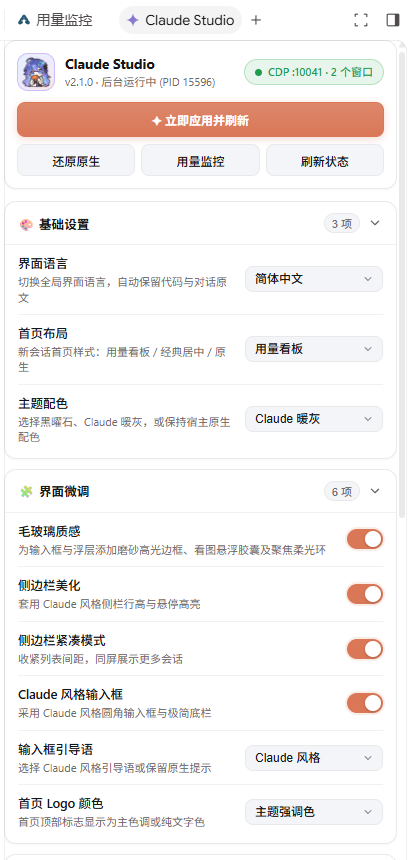
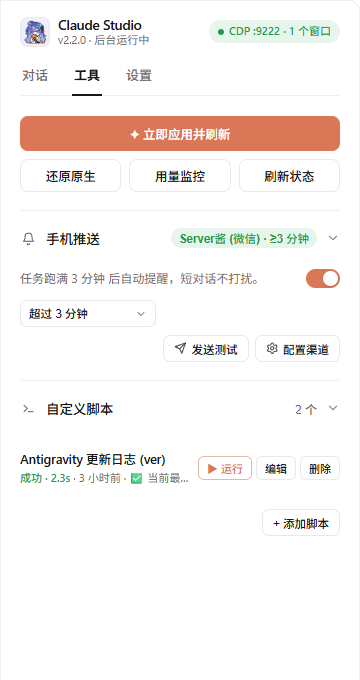
chore(release): release v2.2.0

diff --git a/sidecars/studio/index.html b/sidecars/studio/index.html
@@ -2193,7 +2193,7 @@
       <button type="button" class="section-head" id="update-section-head" aria-expanded="false">
         <span class="section-title" id="update-section-title">版本更新</span>
         <span class="section-head-right">
-          <span class="section-badge" id="update-section-badge">v2.1.0</span>
+          <span class="section-badge" id="update-section-badge">v2.2.0</span>
           <span class="section-chevron" aria-hidden="true">
             <svg width="14" height="14" viewBox="0 0 24 24" fill="none" stroke="currentColor" stroke-width="2.2" stroke-linecap="round" stroke-linejoin="round"><path d="m6 9 6 6 6-6"/></svg>
           </span>
@@ -3983,7 +3983,7 @@
         'updates',
         lang === 'zh-CN' ? '版本更新' : (lang === 'zh-TW' || lang === 'yue') ? '版本更新' : lang === 'ja' ? 'アップデート' : 'Updates & Sync'
       );
-      const verStr = `v${lastStatus?.version || '2.1.0'}`;
+      const verStr = `v${lastStatus?.version || '2.2.0'}`;
       const badgeEl = document.getElementById('update-section-badge');
       if (badgeEl) {
         badgeEl.textContent = lastUpdateCheck?.hasUpdate ? `v${lastUpdateCheck.latestVersion}` : verStr;
@@ -4102,7 +4102,7 @@
         txt.textContent = hasCdp
           ? t.connected(st.cdp.port, st.cdp.pageCount)
           : st.watcher?.alive ? t.waitingPort : t.disconnected;
-        meta.textContent = `v${st.version || '2.1.0'} · ${st.watcher?.alive ? t.watcherOn(st.watcher.pid) : t.watcherOff}`;
+        meta.textContent = `v${st.version || '2.2.0'} · ${st.watcher?.alive ? t.watcherOn(st.watcher.pid) : t.watcherOff}`;
         const showBanner = Boolean(st.cdp?.needsCdpRestart);
         document.getElementById('cdp-banner').classList.toggle('show', showBanner);
         if (metaBanner) {

diff --git a/installer/macos/Common/CdpClient.swift b/installer/macos/Common/CdpClient.swift
@@ -54,7 +54,7 @@ final class PluginManifest {
         let manifestPath = (baseDir as NSString).appendingPathComponent("manifest.json")
         let text = try String(contentsOfFile: manifestPath, encoding: .utf8)
         let raw = try MiniJson.parseObject(text)
-        let version = raw["version"]?.stringValue ?? "2.1.0"
+        let version = raw["version"]?.stringValue ?? "2.2.0"
         let styleId = raw["styleId"]?.stringValue ?? "ag-claude-studio-css"
         let settingBinding = raw["settingBinding"]?.stringValue ?? "__agClaudeStudioSetting"
         let removeExpression = raw["removeExpression"]?.stringValue ?? ""

diff --git a/cdp.js b/cdp.js
@@ -7,7 +7,7 @@ const { execFileSync, spawn } = require('child_process');
 
 const STYLE_ID = 'ag-claude-studio-css';
 const LEGACY_STYLE_ID = 'ag-claude-style-css';
-const PLUGIN_VERSION = '2.1.0';
+const PLUGIN_VERSION = '2.2.0';
 const SETTING_BINDING = '__agClaudeStudioSetting';
 const STARTUP_GRACE_SECONDS = 90;
 const IS_MAC = process.platform === 'darwin';

diff --git a/installer/setup/Program.cs b/installer/setup/Program.cs
@@ -631,7 +631,7 @@ namespace AgyClaudeStudio.Installer
                 if (key == null) return;
                 string exePath = Path.Combine(installDir, SelfInstalledExeName);
                 key.SetValue("DisplayName", "Claude Studio (Antigravity 界面增强补丁)", RegistryValueKind.String);
-                key.SetValue("DisplayVersion", version ?? "2.1.0", RegistryValueKind.String);
+                key.SetValue("DisplayVersion", version ?? "2.2.0", RegistryValueKind.String);
                 key.SetValue("Publisher", "Claude Studio", RegistryValueKind.String);
                 key.SetValue("InstallLocation", installDir, RegistryValueKind.String);
                 key.SetValue("DisplayIcon", exePath + ",0", RegistryValueKind.String);

diff --git a/installer/common/CdpClient.cs b/installer/common/CdpClient.cs
@@ -44,7 +44,7 @@ namespace AgyClaudeStudio
             string manifestPath = Path.Combine(baseDir, "manifest.json");
             Dictionary<string, object> raw = MiniJson.ParseObject(File.ReadAllText(manifestPath, Encoding.UTF8));
             PluginManifest m = new PluginManifest();
-            m.Version = GetString(raw, "version", "2.1.0");
+            m.Version = GetString(raw, "version", "2.2.0");
             m.StyleId = GetString(raw, "styleId", "ag-claude-studio-css");
             m.SettingBinding = GetString(raw, "settingBinding", "__agClaudeStudioSetting");
             m.RemoveExpression = GetString(raw, "removeExpression", "");

diff --git a/README.md b/README.md
@@ -4,12 +4,12 @@
 
 # Claude Studio
 
-**`agy-claude-studio`** — Native UI Aesthetics Plugin for **Google Antigravity 2.33.1+**
+**`agy-claude-studio`** — Native UI Aesthetics & Productivity Plugin for **Google Antigravity 2.33.1+ (v2.35.x Ready)**
 
-Claude Warm-Gray & Obsidian Palettes · Standalone Glassmorphism · Gemini 4 Periodic Table Selector · 60fps Effort Slider · Pixel Clawd Mascot · Native Aux Pane Studio
+Claude Warm-Gray & Obsidian Palettes · 3-Tab Studio Sidecar (`Chat | Tools | Settings`) · 0-Token Mobile Push · Gemini 4 Periodic Table & Direct Sync · 4 Native Skills · Pixel Clawd Mascot
 
 <p>
-  <img src="https://img.shields.io/badge/Antigravity-2.33.1%2B-18181b?style=flat-square" alt="Antigravity 2.33.1+" />
+  <img src="https://img.shields.io/badge/Antigravity-2.33.1%2B%20%7C%202.35.x-18181b?style=flat-square" alt="Antigravity 2.33.1+ / 2.35.x" />
   <img src="https://img.shields.io/badge/Platform-Windows%20%7C%20macOS-18181b?style=flat-square" alt="Platform" />
   <img src="https://img.shields.io/badge/MCP_Tools-0_Tokens-2f855a?style=flat-square" alt="Zero Token MCP" />
   <img src="https://img.shields.io/badge/i18n-5_Languages-3b82f6?style=flat-square" alt="5 Languages" />
@@ -35,6 +35,11 @@ Claude Warm-Gray & Obsidian Palettes · Standalone Glassmorphism · Gemini 4 Per
 
 <div align="center">
 
+#### v2.2 Full Workspace Overview (Claude Warm-Gray + 3-Tab Sidecar + Live Activity)
+<img src="assets/screenshots/studio-overview.png" alt="Claude Studio v2.2 Full Workspace Overview" width="880" />
+
+<br/>
+
 #### Gemini 4 Periodic Table Model Selector
 <img src="assets/screenshots/periodic-selector.png" alt="Gemini 4 Periodic Table Model Selector" width="760" />
 
@@ -45,16 +50,16 @@ Claude Warm-Gray & Obsidian Palettes · Standalone Glassmorphism · Gemini 4 Per
 
 <br/>
 
-#### Native "Claude Studio" Aux Pane × "Usage Monitor" Synergy
+#### Native "Claude Studio" Tools Tab × "Usage Monitor" Synergy
 <table>
   <tr>
     <td align="center" width="50%">
       <img src="assets/screenshots/studio-panel.png" alt="Claude Studio Control Panel" width="308" /><br/>
-      <sub><b>Claude Studio Control Panel</b>: 4 collapsible setting groups + quick jump to Usage Monitor</sub>
+      <sub><b>Claude Studio Tools Tab (v2.2)</b>: 1-click apply, mobile push quick panel &amp; local script runner</sub>
     </td>
     <td align="center" width="50%">
       <img src="assets/screenshots/usage-monitor-pair.png" alt="Usage Monitor Companion" width="308" /><br/>
-      <sub><b>Usage Monitor Companion</b>: auto-expands per conversation with smart composer footer splitting</sub>
+      <sub><b>Usage Monitor Companion</b>: selectable right-pane pinning (<code>Studio</code> / <code>Usage Monitor</code> / <code>Off</code>) with smart footer splitting</sub>
     </td>
   </tr>
 </table>
@@ -68,23 +73,24 @@ Claude Warm-Gray & Obsidian Palettes · Standalone Glassmorphism · Gemini 4 Per
 
 | Module | Highlights |
 | --- | --- |
-| **Themes & Materials** | Three adaptive light/dark solid palettes — `claude` (warm gray/charcoal, default), `obsidian`, and `host` (native) — plus an independent `glassEffect` toggle for frosted popover highlights, floating image viewer pills, and soft composer focus glow. |
-| **Model & Reasoning UX** | **Gemini 4 Periodic Table Drawer**: category tabs, live search, quota & reasoning tier switcher, and AI Studio element-sync prompt generator; **60fps Effort Slider**: ChatGPT Codex nebula & Claude Code dot-matrix styles, fully compatible with Antigravity `2.33.1` `· 1M` / `(High Thinking)` badges. |
-| **Workspace & Typography** | Compact Claude-style composer & sidebar, CJK IME-friendly smooth interpolated caret, Studio home dashboard (26-week heatmap, 30d/7d stacked bar chart, book-length yardstick), and interactive ASCII wave ripple canvas. |
-| **Native Plugin & i18n** | Zero-tool MCP lifecycle host (`tools/list -> []`, **0 token overhead**) with PID-reuse deadlock protection and `<2KB` lightweight config hot-reload; visual right-side Aux Pane; 5-language live UI translation (Simplified Chinese / Traditional Chinese / Cantonese / English / Japanese) across both the main window and **Swarm sidecar (`/swarm`)**, automatically skipping code editors and third-party plugin nodes. |
-| **Pixel Mascot Clawd** | 19-state dual-layer pixel companion perched on the composer corner that reacts to thinking/typing/building/compacting/sleeping states, supports poking, rapid-click tickling, dragging, and auto-dodges takeover cards. |
+| **3-Tab Sidecar (`Chat \| Tools \| Settings`)** | Clean minimalist flat UI with a **1-click header upgrade** (works for both Git clones and non-Git plugin installs while preserving `PLUGIN_DATA/`). The **Chat** tab shows live workspace, Git branch, billed-aligned context breakdown, connectors, and real-time activity (waiting, reasoning, commands, streaming previews, and expandable subagents). |
+| **Mobile Push Alerts (Zero Tokens)** | Get pinged on your phone when long tasks finish or fail across **8 channels** — **ServerChan** (full Markdown up to ~28KB), **Bark (iOS)**, **ntfy**, **Feishu**, **DingTalk**, **WeCom**, **Telegram Bot**, and **custom Webhooks** — with duration filtering (default 3 min), idle/error/cancel rules, and isolated local credentials in `PLUGIN_DATA/notify.json`. |
+| **Model, Reasoning & `/compact` UX** | **Gemini 4 Periodic Table** with direct AI Studio metadata sync; **Orchestrator quick switch** beside the model selector with persisted effort and running-turn locking; **60fps Effort Slider**; and smart **`/compact` presets** (auto-select, inline hint, 4 customizable presets defaulting to `clean`). |
+| **Local Tools & 4 Native Skills** | **Tools** tab to manage and run local Node / Python / Shell scripts with live output, pre-seeded with the bundled **Antigravity changelog checker** (`scripts/fetch-agy-changelog.mjs`). Ships **4 native skills**: `studio-setup` (30s guided setup), `studio-doctor` (diagnostics & NL tuning), `studio-notify` (push wizard), and `studio-translation-protect` (manage i18n exclusions). |
+| **Themes, Localization & i18n Protocol** | `claude`, `obsidian`, and `host` palettes; standalone frosted glass with subtle unfocused glow; `logoInk` top-left icon tinting; 5-language live localization across main window, **Swarm (`/swarm`)**, and Antigravity **v2.35.x** (plus an on-demand Marketplace Google Translate pill); standard opt-out attributes + cloud protection list + custom ignore selectors. |
+| **Workspace & Pixel Mascot Clawd** | Compact Claude-style composer & sidebar, CJK IME-friendly smooth caret, Studio home dashboard & ASCII ripple canvas, and the 19-state pixel companion **Clawd** (poke, tickle, drag, nap, auto-dodge). |
 
 ---
 
 <a id="companion-plugin"></a>
 ## Companion Plugin: `antigravity-usage-monitor`
 
-`Claude Studio` focuses on **visual aesthetics, interaction craft, and localization**. For live token throughput (`tok/s`), TTFT latency, cost estimates, and multi-model quota pools, we recommend pairing it with the independent plugin **[yuhuan-dev/antigravity-usage-monitor](https://github.com/yuhuan-dev/antigravity-usage-monitor)**:
+`Claude Studio` focuses on **visual aesthetics, interaction craft, live workspace inspection, and localization**. For live token throughput (`tok/s`), TTFT latency, cost estimates, and multi-model quota pools, we recommend pairing it with the independent plugin **[yuhuan-dev/antigravity-usage-monitor](https://github.com/yuhuan-dev/antigravity-usage-monitor)**:
 
-- **Zero-conflict coexistence**: Built-in lightweight usage stats default to off (`usageStatsEnabled: false`), and the i18n engine permanently skips `#ag-usage-monitor-*` roots.
+- **Zero-conflict coexistence**: Built-in lightweight HUD defaults to a clean top bar (`usageStatsEnabled: true`, `hudTopBar: true`, `hudBottomBar: false`, `hudRimProgress: false`) and can be toggled off anytime in Settings. The i18n engine permanently skips `#ag-usage-monitor-*` via the built-in `i18n-compat.json` protection list.
 - **Smart footer splitting**: When `usage-monitor` is docked in the composer footer, its context progress ring is seamlessly mirrored to the far right without layout jitter or crowding.
-- **Aux Pane synergy**: Once `usage-monitor` is detected, the top "Usage Monitor" shortcut activates automatically, with optional once-per-conversation auto-pinning (`pinUsageMonitorPane: true`) that never steals focus.
-- **Clean license boundary**: This project is **MIT**-licensed while `antigravity-usage-monitor` is **GPLv3**-licensed — strictly decoupled and installed independently. If you prefer not to install a companion plugin, you can toggle the built-in lightweight usage HUD at the bottom of the Studio panel anytime.
+- **3-way right-pane pinning (`pinRightPane`)**: Choose `Off`, `Studio Chat Pane` (default), or `Usage Monitor` in Settings — legacy `pinUsageMonitorPane` configs migrate automatically, and installs without `usage-monitor` fall back gracefully.
+- **Clean license boundary**: This project is **MIT**-licensed while `antigravity-usage-monitor` is **GPLv3**-licensed — strictly decoupled and installed independently.
 
 ---
 
@@ -92,7 +98,7 @@ Claude Warm-Gray & Obsidian Palettes · Standalone Glassmorphism · Gemini 4 Per
 ## Quick Install
 
 ### Requirements
-- **Google Antigravity Desktop `2.33.1+`** (Windows / macOS) launched with `--remote-debugging-port=0`.
+- **Google Antigravity Desktop `2.33.1+`** (fully tested through `2.35.x`; Windows / macOS) launched with `--remote-debugging-port=0`.
 - **Node.js `>= 22`** (zero third-party npm dependencies; uses native `fetch`, `WebSocket`, and `node:test`).
 
 ### Fastest Way: Ask Gemini in Antigravity (Recommended)
@@ -101,9 +107,9 @@ No terminal needed — just paste this repository URL into any Antigravity chat 
 
 > **Help me install this Antigravity plugin: `https://github.com/eosglyph/agy-claude-studio`**
 
-The agent will clone it into your plugins directory, check CDP launch settings, and walk you through enabling it.
+Once installed, you can also ask Gemini to run the built-in **`studio-setup`** skill (*"Walk me through 30s Claude Studio setup"*) or **`studio-notify`** (*"Help me set up mobile push alerts"*).
 
-> **Optional · Full Dual-Pane Setup**: Want the exact dual-pane experience shown in the screenshots? Ask Gemini to install the standalone companion plugin (GPLv3) together:
+> **Optional · Full Dual-Pane Setup**: Want the exact dual-pane experience with the standalone companion plugin (GPLv3)? Ask Gemini:
 >
 > **Help me install `https://github.com/eosglyph/agy-claude-studio` along with the companion plugin `https://github.com/yuhuan-dev/antigravity-usage-monitor`**
 
@@ -126,6 +132,7 @@ The agent will clone it into your plugins directory, check CDP launch settings, 
 <summary><b>Option 2: Standalone Windows / macOS Installers (No Node.js Required) & Companion Launcher</b></summary>
 
 - **Pre-built Releases**: Grab `Claude-Studio-v<version>-Windows-x64.exe` or `Claude-Studio-v<version>-macOS-universal.dmg` directly from [GitHub Releases](https://github.com/eosglyph/agy-claude-studio/releases).
+  > **macOS note**: The Universal `.dmg` passes GitHub Actions CI builds and the automated test suite, and currently awaits real-hardware Mac verification — feedback from macOS users is very welcome.
 
 - **Build Windows standalone installer locally**:
   ```bash
@@ -181,7 +188,7 @@ npm run remove                        # Stop watcher and restore native UI clean
 <a id="configuration"></a>
 ## Configuration
 
-All settings can be toggled live in the right-side **Claude Studio** panel and persist automatically (full schema in [config.example.json](config.example.json)).
+All settings can be toggled live in the right-side **Claude Studio** panel and persist automatically (full schema in [config.example.json](config.example.json)). Mobile push settings and credentials are stored separately in local `PLUGIN_DATA/notify.json` and are never written to `config.json` or injected into renderer pages.
 
 <details>
 <summary><b>View all configuration keys</b></summary>
@@ -191,17 +198,19 @@ All settings can be toggled live in the right-side **Claude Studio** panel and p
 | Basic | `language` | `'zh-CN'` \| `'zh-TW'` \| `'yue'` \| `'en'` \| `'ja'` | `'zh-CN'` | UI & Studio panel language |
 | Basic | `homeLayout` | `'studio'` \| `'classic'` \| `'off'` | `'studio'` | New conversation home screen layout |
 | Basic | `palette` | `'claude'` \| `'obsidian'` \| `'host'` | `'claude'` | Solid color theme palette |
-| UI Polish | `glassEffect` | `boolean` | `true` | Frosted glassmorphism borders, image viewer pills & focus glow |
+| UI Polish | `glassEffect` | `boolean` | `true` | Frosted glassmorphism borders, image viewer pills & subtle ambient glow |
 | UI Polish | `sidebarRestyle` / `sidebarCompact` | `boolean` | `true` | Claude-style sidebar density & hover polish |
 | UI Polish | `composerRestyle` / `placeholderStyle` | `boolean` / `'studio'` \| `'host'` | `true` / `'studio'` | Minimalist composer & prompt placeholder copy |
-| UI Polish | `logoInk` | `'accent'` \| `'foreground'` | `'accent'` | Home logo tint mode |
-| Interaction | `periodicSelector` | `boolean` | `true` | Gemini 4 Periodic Table model selector |
+| UI Polish | `logoInk` | `'accent'` \| `'foreground'` | `'accent'` | Home & top-left app logo tint mode |
+| Interaction | `periodicSelector` / `orchestratorSwitch` | `boolean` | `true` | Gemini 4 Periodic Table selector & Orchestrator quick switch |
 | Interaction | `effortSliderStyle` / `effortAccent` | `'chatgpt'` \| `'claude'` / `boolean` | `'chatgpt'` / `true` | 60fps effort slider style & color scale |
+| Interaction | `compactPreset` / `compactCustomText` | `'empty'` \| `'clean'` \| `'dev'` \| `'custom'` / `string` | `'clean'` / `''` | `/compact` preset & custom prompt text |
 | Interaction | `smoothCaret` / `mascot` / `homeRipple` | `boolean` / `'crab'` \| `'off'` / `boolean` | `true` / `'crab'` / `true` | Smooth caret, Clawd mascot & home ripple field |
-| Usage HUD | `pinUsageMonitorPane` | `boolean` | `true` | Auto-open `usage-monitor` pane once per conversation |
-| Usage HUD | `usageStatsEnabled` | `boolean` | `false` | Master toggle for built-in HUD (preserves child prefs when off) |
-| Usage HUD | `inlineStats` / `ringMode` / `turnBadges` | `boolean` / `'context'` \| `'quota'` / `boolean` | `true` / `'context'` / `true` | *(Requires `usageStatsEnabled`)* Inline stats, context/quota ring & turn `#T` badges |
-| Usage HUD | `hudTopBar` / `hudBottomBar` / `hudRimProgress` / `hudFooterChip` / `hudCompact` | `boolean` | `true` | *(Requires `usageStatsEnabled`)* Rim progress bar & compact HUD layout |
+| Localization | `pluginPageTranslate` / `i18nIgnoreSelectors` | `boolean` / `string[]` | `true` / `[]` | Marketplace on-demand Google Translate pill & custom protected CSS selectors |
+| Usage & Pane | `pinRightPane` | `'off'` \| `'studio'` \| `'usage-monitor'` | `'studio'` | Auto-open right Aux Pane per conversation (migrates legacy `pinUsageMonitorPane`) |
+| Usage & Pane | `usageStatsEnabled` | `boolean` | `true` | Master toggle for built-in HUD (preserves child prefs when off) |
+| Usage & Pane | `inlineStats` / `ringMode` / `turnBadges` | `boolean` / `'context'` \| `'quota'` / `boolean` | `true` / `'context'` / `true` | *(Requires `usageStatsEnabled`)* Inline stats, context/quota ring & turn `#T` badges |
+| Usage & Pane | `hudTopBar` / `hudBottomBar` / `hudRimProgress` | `boolean` | `true` / `false` / `false` | *(Requires `usageStatsEnabled`)* Top HUD bar, bottom bar & rim progress bar |
 | Runtime | `autoRelaunchWithCdp` / `exitOnHostClose` / `pollIntervalMs` | `boolean` / `boolean` / `number` | `true` / `false` / `2500` | CDP relaunch behavior, host-exit lifecycle & polling interval |
 
 </details>
@@ -214,14 +223,14 @@ All settings can be toggled live in the right-side **Claude Studio** panel and p
 <details>
 <summary><b>1. Not auto-injecting after updating to Antigravity 2.33.0+?</b></summary>
 
-Starting in `2.33.0`, Antigravity disables the CDP port by default. Fully quit Antigravity (including the system tray) and launch it with `--remote-debugging-port=0`, or use the one-click relaunch button in the Studio panel / `launch.bat` / `./launch.sh`.
+Starting in `2.33.0`, Antigravity disables the CDP port by default. Fully quit Antigravity (including the system tray) and launch it with `--remote-debugging-port=0`, or use the one-click relaunch button in the Studio panel / `launch.bat` / `./launch.sh` — or simply ask Gemini *"Diagnose Claude Studio"* to run the `studio-doctor` skill.
 
 </details>
 
 <details>
-<summary><b>2. Why is the top "Usage Monitor" button disabled?</b></summary>
+<summary><b>2. Why is the "Usage Monitor" option unavailable in Right Pane Pinning?</b></summary>
 
-That shortcut opens the independent companion plugin [yuhuan-dev/antigravity-usage-monitor](https://github.com/yuhuan-dev/antigravity-usage-monitor). Once installed, click "Refresh Status" in the panel to activate it — or simply enable **Built-in Usage Stats** at the bottom of the Studio panel.
+That option pairs with the independent companion plugin [yuhuan-dev/antigravity-usage-monitor](https://github.com/yuhuan-dev/antigravity-usage-monitor). Once installed, refresh status in the Studio panel to activate it — or keep `pinRightPane` on **Studio Chat Pane** with the built-in lightweight HUD enabled.
 
 </details>
 
@@ -235,7 +244,7 @@ Native context menus are rendered by Electron via OS APIs (Win32 / NSMenu) outsi
 <details>
 <summary><b>4. How do I completely restore the native Antigravity UI?</b></summary>
 
-Click **Restore Native** at the top of the **Claude Studio** panel, disable `Claude Studio` in Antigravity Plugins, or run `npm run remove`. Zero host files are ever modified.
+Click **Restore Native** in the **Claude Studio** panel, disable `Claude Studio` in Antigravity Plugins, or run `npm run remove`. Zero host files are ever modified.
 
 </details>
 
@@ -255,22 +264,25 @@ npm run build:macos      # Build macOS Universal .app & .dmg (macOS only)
 
 ```text
 agy-claude-studio/
-├── plugin.json / mcp_config.json  # Native Antigravity plugin manifest & zero-tool MCP host config
-├── plugin/mcp-host.js             # Native lifecycle host (PID-reuse verification & hot takeover)
-├── sidecars/studio/               # Right Aux Pane "Claude Studio" visual control panel
-├── cdp.js / lifecycle.js          # CDP client, config migration, lockfile & host watchdog
-├── watcher-core.js / inject.js    # Multi-window hot-reload controller & CLI entry
-├── style.css / ui-runtime.js      # Core theme styles & UI runtime (home, periodic, slider, synergy)
-├── sidecar-core.js                # Lightweight reversible i18n runtime for Swarm sidecar (/swarm)
-├── periodic-core.js               # Gemini 4 Periodic Table catalog & filter engine
-├── effort-core.js                 # Dual-style 60fps reasoning effort slider model
-├── i18n-core.js / i18n-locales.js # 5-language DOM localization engine & dictionaries
-├── usage-core.js                  # Built-in trajectory parser, token breakdown & heatmap engine
-├── mascot-core.js / crab-assets.js# Clawd state machine & 19 dual-layer pixel sprite sets
-├── ripple-core.js                 # Home ASCII noise field & 2D wave solver
-├── installer/ & companion/        # Windows (C#) / macOS (Swift) installers & companion scripts
-├── scripts/ & test/               # Build pipelines & node:test automated test suite
-└── assets/                        # Icons, animated banners & UI screenshots
+├── plugin.json / mcp_config.json / hooks.json  # Native plugin manifest, 0-token MCP host & Stop hook
+├── plugin/mcp-host.js                          # Native lifecycle host (PID-reuse check & hot takeover)
+├── sidecars/studio/                            # 3-Tab right Aux Pane (Chat | Tools | Settings)
+├── skills/                                     # 4 native skills (setup, doctor, notify, translation-protect)
+├── cdp.js / lifecycle.js                       # CDP client, config migration, lockfile & host watchdog
+├── watcher-core.js / inject.js                 # Multi-window hot-reload controller & CLI entry
+├── style.css / ui-runtime.js                   # Core theme styles & UI runtime (home, periodic, slider, /compact)
+├── sidecar-core.js                             # Lightweight reversible i18n runtime for Swarm sidecar (/swarm)
+├── periodic-core.js / periodic-sync.js         # Gemini 4 Periodic Table catalog & direct AI Studio sync
+├── effort-core.js                              # Dual-style 60fps reasoning effort slider model
+├── notify-core.js / scripts/notify-stop.mjs    # 0-token 8-channel mobile push engine & Stop hook runner
+├── scripts-core.js / scripts/fetch-agy-changelog.mjs # Local scripts toolbox & Antigravity changelog fetcher
+├── i18n-core.js / i18n-locales.js / i18n-compat.json # 5-language i18n engine, dicts & opt-out protection list
+├── usage-core.js                               # Built-in trajectory parser, token breakdown & heatmap engine
+├── mascot-core.js / crab-assets.js             # Clawd state machine & 19 dual-layer pixel sprite sets
+├── ripple-core.js                              # Home ASCII noise field & 2D wave solver
+├── installer/ & companion/                     # Windows (C#) / macOS (Swift) installers & companion scripts
+├── scripts/ & test/                            # Build pipelines & node:test automated test suite
+└── assets/                                     # Icons, animated banners & UI screenshots
 ```
 
 </details>

diff --git a/CHANGELOG.md b/CHANGELOG.md
@@ -2,6 +2,52 @@
 
 All notable changes to **Claude Studio (`agy-claude-studio`)** and its upstream base **AGY Claude Style (`0DNANCY/agy-claude-style`)** are documented in this file.
 
+## [v2.2.0] - 2026-11-25
+
+`v2.2.0` 重点重构了右侧 Claude Studio 面板，同时补齐了任务完成手机提醒、本地脚本工具箱、4 项原生引导技能，以及 Antigravity `v2.35.x` 的全套界面适配。
+
+### 侧边栏全新改版（`对话 | 工具 | 设置`）
+- **新增「对话」实时状态页**：
+  - 一眼看到当前工作区路径、Git 分支、已接入的连接器，以及与实际计费一致的上下文占用分布（支持展开查看 MCP 工具、技能与规则明细）。
+  - 底部实时显示当前任务进展：区分等待首字、推理中、执行/等待命令、正在输出回复等阶段，支持实时摘要预览、并行工具进度，以及展开查看运行中的子代理与蜂群成员。
+- **更清爽的扁平视觉**：三页统一改用极简扁平样式、单色线性图标和更宽松的留白，信息层次更清楚。
+- **顶栏一键升级**：检测到新版本后会在顶栏出现升级提示，Git 克隆版和直接下载的插件包都能一键原地更新，用户配置与推送密钥不受影响。
+- **右侧栏常驻改为三选一**：支持按需选择 `关闭` / `Studio 对话面板`（默认） / `用量监控`；老配置会自动迁移，没装 `usage-monitor` 时也能顺畅使用。
+
+### 手机推送提醒（任务结束自动发，不耗对话额度）
+- 支持 **8 种渠道**：**Server酱**（支持推送最长约 28KB 完整 Markdown 回复 + 卡片摘要）、**Bark（iOS）**、**ntfy**、**飞书**、**钉钉**、**企业微信**、**Telegram Bot** 与 **自定义 Webhook**。
+- 工具页新增可折叠快捷控制区，支持按任务耗时过滤（默认超过 3 分钟才提醒）、等子代理全部结束后再发、出错立即提醒、手动停止不打扰。
+- 所有密钥只保存在本机独立文件 `PLUGIN_DATA/notify.json`，不会混进界面配置。
+
+### 协作模式、`/compact` 与模型体验
+- **协作模式快捷开关**：模型选择器旁新增一键切换协作模式（Orchestrator）的按钮，重启后能记住上次的思考强度设置。
+- **运行期间防误触锁定**：智能体干活时，同步锁定协作模式开关、元素周期表入口和思考强度标签，并翻译了 Antigravity `v2.35` 的锁定提示。
+- **`/compact` 快捷压缩预设**：点击快捷按钮后自动精准选中 `/compact` 并显示内联提示，内置 4 套压缩指令预设（留空 / 精简降噪（默认） / 开发接力 / 自定义），不自动发送、方便先微调再回车。
+- **AI Studio 元素周期表直连同步**：在周期表弹窗里可以直接拉取 Google AI Studio 最新发布的 Gemini 4 模型信息与配色，无需手动更新插件。
+
+### 本地脚本工具箱与 4 项原生技能
+- **「工具」页本地脚本运行器**：支持登记并一键运行本机 Node / Python / Shell 脚本，实时查看输出结果。
+- **随包附带 Antigravity 更新日志脚本**：内置 `scripts/fetch-agy-changelog.mjs`（抓取 Antigravity 官方最新版本号与更新日志，支持 `--all` / `--json` / `--push`），新装用户首次打开即可一键使用。
+- **4 项原生插件技能**：
+  - `studio-setup`：30 秒点选卡片完成初始偏好配置并立即生效；
+  - `studio-doctor`：排查样式未生效、热重注入自愈与自然语言调参；
+  - `studio-notify`：手把手配好手机推送与排障；
+  - `studio-translation-protect`：把不想被翻译的第三方插件区域加入保护名单。
+
+### 本地化与免打扰翻译协议
+- **通用免翻译保护**：遵循标准 `translate="no"` / `.notranslate` 等免翻译标记，支持同步云端第三方插件保护名单，也可自定义忽略规则，避免误翻其他插件界面。
+- **插件市场按需翻译**：在插件市场列表和详情页顶部加入谷歌翻译小胶囊，默认不发任何请求，点一下就能翻译并随时切回原文。
+- **Antigravity `v2.35.x` 适配**：支持 React 拆分文本节点翻译，补齐了 `v2.35.1`、Automations、设置页新版大小写及 `Compacting` 等 100+ 条界面词条。
+
+### 细节与默认配置调整
+- 毛玻璃输入框在失焦时保留一圈克制的微光；`logoInk` 现在也会同步作用于左上角应用图标。
+- 精简内置用量选项，移除不再使用的「底栏配额标签」与「紧凑统计样式」，并优化了开箱默认配置（默认开启顶部精简上下文条、`/compact` 精简降噪预设、常驻 Studio 对话面板，默认推送耗时门槛 3 分钟）。
+- **macOS 平台说明**：macOS Universal `.dmg` 安装包已通过 GitHub Actions CI 构建与自动化测试，目前尚待真机 Mac 环境实测验证，欢迎 macOS 用户试用反馈。
+
+**Full Changelog**: https://github.com/eosglyph/agy-claude-studio/compare/v2.1.0...v2.2.0
+
+---
+
 ## [v2.1.0] - 2026-11-22
 
 **Claude Studio Edition** — 基于上游 `0DNANCY/agy-claude-style v2.1.0` 独立演进并重塑为 **Claude Studio (`eosglyph/agy-claude-studio`)**：

diff --git a/companion/README-分享说明.md b/companion/README-分享说明.md
@@ -1,6 +1,6 @@
-# Claude Studio · Windows 伴随启动定制包 (`v2.1.0`)
+# Claude Studio · Windows 伴随启动定制包 (`v2.2.0`)
 
-本发布包基于 [eosglyph/agy-claude-studio](https://github.com/eosglyph/agy-claude-studio) `v2.1.0`（Forked from `0DNANCY/agy-claude-style`）扩展编译，集成了以下核心增强：
+本发布包基于 [eosglyph/agy-claude-studio](https://github.com/eosglyph/agy-claude-studio) `v2.2.0`（Forked from `0DNANCY/agy-claude-style`）扩展编译，集成了以下核心增强：
 
 1. **自定义 Gemini AI 娘 × Clawd 透明图标与伴随启动**
    - 附带多分辨率（`16~256px`）`agy-gemini-clawd.ico`，默认关闭开机自启（`--no-autostart`），点击桌面快捷方式时随用随启；若本机已启用原生插件则自动退让，仅负责带 CDP 启动。
